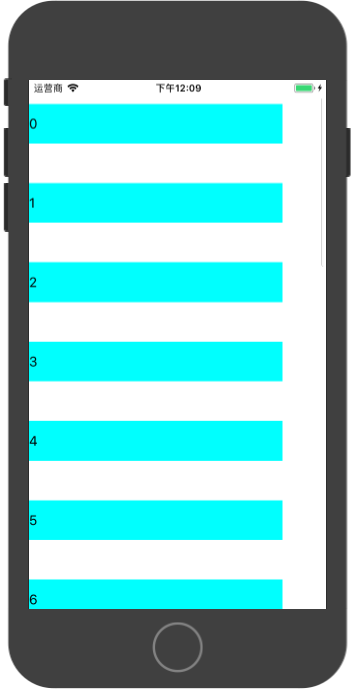
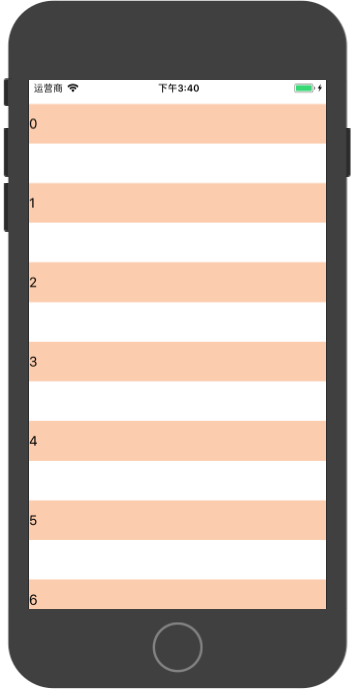
pagecontrol

diff --git a/Basic/View.md b/Basic/View.md
@@ -22,6 +22,11 @@
         - [滚动视图UIScrollView](#uiscrollview)
             - [滚动](#)
             - [滚动事件](#)
+        - [页面控件UIPageControl](#uipagecontrol)
+        - [警告UIAlertView](#uialertview)
+            - [title](#title)
+            - [button](#button)
+            - [button-click](#button-click)
 
 <!-- /TOC -->
 
@@ -539,7 +544,7 @@ private void CreateAndInit()
 
 #### 滚动事件
 
-![](..\assets\ui\ui_scroll_view_2.png)
+![](..\assets\ui\ui_scroll_view2.png)
 
 ```cs
 public override void ViewDidLoad()
@@ -554,7 +559,7 @@ private void CreateAndInit()
 {
     UIScrollView scrView = new UIScrollView();
     scrView.Frame = new CGRect(0, 0, View.Frame.Width, View.Frame.Height);
-    scrView.ContentSize = new CGSize(320, 2000);
+    scrView.ContentSize = new CGSize(View.Frame.Width, 2000);
     View.AddSubview(scrView);
 
     scrView.Scrolled += delegate
@@ -571,8 +576,8 @@ private void CreateAndInit()
     for (int i = 0; i < 21; i++)
     {
         UILabel lbl = new UILabel();
-        lbl.Frame = new CGRect(0, y, 320, 50);
-        lbl.BackgroundColor = UIColor.Cyan;
+        lbl.Frame = new CGRect(0, y, View.Frame.Width, 50);
+        lbl.BackgroundColor = UIColor.FromRGB(249, 205, 169);
         lbl.Text = string.Format("{0}", i);
         scrView.AddSubview(lbl);
         y += 100;
@@ -580,3 +585,230 @@ private void CreateAndInit()
 }
 ```
 
+### 页面控件UIPageControl
+
+![](..\assets\ui\ui_pagecontrol_1.png)
+
+```cs
+using System;
+using System.Threading;
+using System.Threading.Tasks;
+using CoreGraphics;
+using Foundation;
+using UIKit;
+
+namespace Single
+{
+    public partial class ViewController : UIViewController
+    {
+        protected ViewController(IntPtr handle) : base(handle)
+        {
+            // Note: this .ctor should not contain any initialization logic.
+        }
+
+        UIImageView page1;
+        UIImageView page2;
+        UIImageView page3;
+        UIScrollView scrollView;
+        UIPageControl pageControl;
+
+        public override void ViewDidLoad()
+        {
+            base.ViewDidLoad();
+            // Perform any additional setup after loading the view, typically from a nib.
+
+            CreateAndInit();
+        }
+
+        private void CreateAndInit()
+        {
+            scrollView = new UIScrollView();
+            scrollView.Frame = new CGRect(0, 0, View.Frame.Width, View.Frame.Height);
+            scrollView.DecelerationEnded += ScrollView_DecelerationEnded;
+
+            pageControl = new UIPageControl();
+            pageControl.Frame = new CGRect(0, 540, View.Frame.Width, 40);
+            pageControl.Pages = 3;
+            pageControl.ValueChanged += PageControl_ValueChanged;
+            scrollView.Scrolled += delegate
+            {
+                //Console.WriteLine("Scrolled!");
+            };
+            scrollView.PagingEnabled = true;
+            CGRect pageFrame = scrollView.Frame;
+            scrollView.ContentSize = new CGSize(pageFrame.Width * 3, pageFrame.Height);
+
+            page1 = new UIImageView(pageFrame);
+            page1.ContentMode = UIViewContentMode.ScaleAspectFit;
+            page1.Image = UIImage.FromFile("1.jpg");
+            pageFrame.X += this.scrollView.Frame.Width;
+
+            page2 = new UIImageView(pageFrame);
+            page2.ContentMode = UIViewContentMode.ScaleAspectFit;
+            page2.Image = UIImage.FromFile("3.jpg");
+            pageFrame.X += this.scrollView.Frame.Width;
+
+            page3 = new UIImageView(pageFrame);
+            page3.ContentMode = UIViewContentMode.ScaleAspectFit;
+            page3.Image = UIImage.FromFile("4.jpg");
+            pageFrame.X += this.scrollView.Frame.Width;
+
+            scrollView.AddSubview(page1);
+            scrollView.AddSubview(page2);
+            scrollView.AddSubview(page3);
+
+            View.AddSubview(scrollView);
+            View.AddSubview(pageControl);
+        }
+
+        /// <summary>
+        /// Scrolls the view deceleration ended.
+        /// 滚动视图结束时
+        /// </summary>
+        /// <param name="sender">Sender.</param>
+        /// <param name="e">E.</param>
+        void ScrollView_DecelerationEnded(object sender, EventArgs e)
+        {
+            Console.WriteLine("ScrollView_DecelerationEnded");
+            CGPoint contentOffset = scrollView.ContentOffset;
+            switch (pageControl.CurrentPage)
+            {
+                case 0:
+                    contentOffset.X = page1.Frame.X;
+                    scrollView.SetContentOffset(contentOffset, true);
+                    break;
+                case 1:
+                    contentOffset.X = page2.Frame.X;
+                    scrollView.SetContentOffset(contentOffset, true);
+                    break;
+                case 2:
+                    contentOffset.X = page3.Frame.X;
+                    scrollView.SetContentOffset(contentOffset, true);
+                    break;
+                default:
+                    break;
+            }
+        }
+
+        /// <summary>
+        /// Pages the control value changed.
+        /// 滚动事件 未触发。。。
+        /// </summary>
+        /// <param name="sender">Sender.</param>
+        /// <param name="e">E.</param>
+        void PageControl_ValueChanged(object sender, EventArgs e)
+        {
+            Console.WriteLine("PageControl_ValueChanged");
+            nfloat x1 = page1.Frame.X;
+            nfloat x2 = page2.Frame.X;
+            nfloat x = scrollView.ContentOffset.X;
+
+            if (x == x1)
+            {
+                this.pageControl.CurrentPage = 0;
+            }
+            else if (x == x2)
+            {
+                this.pageControl.CurrentPage = 1;
+            }
+            else
+            {
+                this.pageControl.CurrentPage = 2;
+            }
+        }
+
+        public override void DidReceiveMemoryWarning()
+        {
+            base.DidReceiveMemoryWarning();
+            // Release any cached data, images, etc that aren't in use.
+        }
+    }
+}
+
+```
+
+
+### 警告UIAlertView
+#### title
+
+![](..\assets\ui\ui_alert_msg.png)
+
+```cs
+public override void ViewDidLoad()
+{
+    base.ViewDidLoad();
+    // Perform any additional setup after loading the view, typically from a nib.
+
+    UIAlertView altView = new UIAlertView();
+    altView.Title = "提示";
+    altView.Message = "电量不足";
+    altView.Show();
+}
+```
+
+#### button
+
+![](..\assets\ui\ui_alert_button.png)
+
+```cs
+public override void ViewDidLoad()
+{
+    base.ViewDidLoad();
+    // Perform any additional setup after loading the view, typically from a nib.
+
+    UIAlertView altView = new UIAlertView();
+    altView.Title = "谢谢";
+    altView.Message = "亲如果你对我们的商品满意，清点亮五颗星";
+    altView.AddButton("前往评论");
+    altView.AddButton("暂不评论");
+    altView.AddButton("残忍拒绝");
+    altView.Show();
+}
+```
+
+#### button-click
+
+![](..\assets\ui\ui_alert_button_click.png)
+
+```cs
+UIButton btnShowAler;
+
+public override void ViewDidLoad()
+{
+    base.ViewDidLoad();
+    // Perform any additional setup after loading the view, typically from a nib.
+
+    btnShowAler = new UIButton();
+    btnShowAler.Frame = new CGRect(100, 300, 110, 30);
+    btnShowAler.SetTitle("Show Alert", UIControlState.Normal);
+    btnShowAler.SetTitleColor(UIColor.Black, UIControlState.Normal);
+    View.AddSubview(btnShowAler);
+    btnShowAler.TouchUpInside += (sender, e) =>
+    {
+        ShowAlert("Alert Message", "Tap OK or Cancel");
+    };
+}
+
+private void ShowAlert(string title, string message)
+{
+    UIAlertView altView = new UIAlertView();
+    altView.Title = title;
+    altView.Message = message;
+
+    altView.AddButton("OK");
+    altView.AddButton("Cancel");
+    //事件响应
+    altView.Dismissed += (sender, e) =>
+    {
+        if (e.ButtonIndex == 0)
+        {
+            btnShowAler.SetTitle("OK!", UIControlState.Normal);
+        }
+        else
+        {
+            btnShowAler.SetTitle("Cancelled!", UIControlState.Normal);
+        }
+    };
+    altView.Show();
+}
+```
